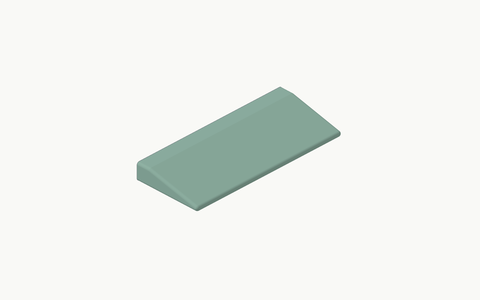
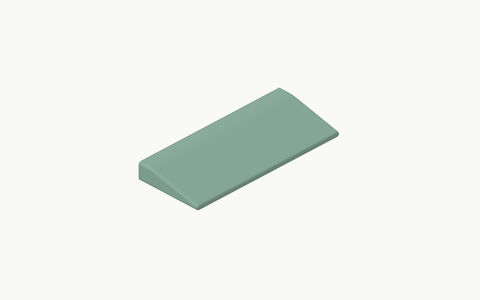
Refresh paired ramp gallery and record native print caveats
Regenerate only ten ramp thumbnails and the ramp overview from the committed R32 generator. Preserve unrelated images and their provenance. Document pocket-roof support and separate male-tab first-layer islands without claiming physical fit.

diff --git a/docs/attachments.md b/docs/attachments.md
@@ -1,6 +1,6 @@
 # Standard accessory gallery
 
-This page shows the 56 accessories in the standard 60 mm unit / 13 mm thickness catalogue for the documented 350 x 320 x 325 mm build space. Each thumbnail comes from that part's STEP file. Custom interface settings or another build space can change dimensions and what fits.
+This page shows the 61 accessories in the standard 60 mm unit / 13 mm thickness catalogue for the documented 350 x 320 x 325 mm build space. Each thumbnail comes from that part's STEP file. Custom interface settings or another build space can change dimensions and what fits.
 
 Click a thumbnail for the full-size image. The code name is the generator name. Parts in one family share a scale; different families use different scales so small details stay readable. Colour is only for the pictures.
 
@@ -10,22 +10,27 @@ Bracket names state both footprints. Deep tall is floor 1x2 -> wall 1x2, Wide lo
 
 The individual thumbnails show the bracket alone. The [family view](images/vertical-tile-brackets.png) adds separate floor and wall tiles to show assembly; those tiles are not included in the bracket export. Deep examples show the default underside-outward wall orientation, while shallow examples show the accepted top-outward orientation. Use one orientation consistently across adjoining wall tiles because top-outward placement reverses left/right joining handedness. Holes covered by the solid backing are blind while assembled.
 
-Ramp names give width along the tile edge in unit cells. Every ramp keeps the same physical 50 mm run; width, rise and one original female pocket per cell follow its unit/thickness interface. The gallery shows standard 60/13 examples. The ramp receives a tile's north male edge and extends in positive Y. Full-height ramp joints are not available.
+Ramp names give width along the tile edge in unit cells. Every ramp keeps a 50 mm slope run; width, rise and one original tile-edge joint per cell follow its unit/thickness interface. Female is the default: it receives a north male tile edge and extends in positive Y. Male tabs fit female south or west tile edges after placement rotation; these are tile-edge joints, not X plugs. At standard 60/13 settings, male tabs project another 6 mm beyond the slope, so overall depth is 56 mm. Full-height ramp joints are not available.
 
 Normal `vertical-stop` names give base X units, base Y units and the physical H60/H120 shoulder height. They are filled CAD wedges with no wall holes, panel connectors or ledges. The slicer still chooses perimeters and infill.
 
-Original edge/corner bodies and straight rail bodies use R3. Rail ends use smaller rounds where the shape or STEP export needs them. Plates, ramps and stops use R2. Brackets use R3 at the thick front-to-slope transition, R2 on other thick edges and R1 around the thin bearing lip. Mating surfaces keep their own geometry.
+Original edge/corner bodies and straight rail bodies use R3. Rail ends use smaller rounds where the shape or STEP export needs them. Plates and stops use R2. Ramps have R2 sides/noses and a broad R32 shelf blend, capped to retain 2 mm of flat shelf on thicker custom parts. Brackets use R3 at the thick front-to-slope transition, R2 on other thick edges and R1 around the thin bearing lip. Mating surfaces keep their own geometry.
 
-Before packing, Bambu projects put plates broad-face-down at X=180, original brackets on their diagonal rear face, shallow brackets side-down at Y=-90, normal stops on their broad rear face and angled stops back-down at X=-135. STEP, STL and core 3MF keep source orientation. Ramps, normal stops and shallow brackets turn on Auto support for that object. Remove support from mating areas before assembly.
+Before packing, Bambu projects put plates broad-face-down at X=180, original brackets on their diagonal rear face, shallow brackets side-down at Y=-90, normal stops on their broad rear face and angled stops back-down at X=-135. STEP, STL and core 3MF keep source orientation. Female ramps, normal stops and shallow brackets turn on Auto support for that object; male ramps leave it off. Remove support from mating areas before assembly. Physical fit and support removal still need checking on a print.
 
 ## Floor ramps
 
 <table><thead><tr><th width="206">Thumbnail</th><th>Name</th><th>Size / variant</th><th>What it does</th></tr></thead><tbody>
-<tr><td width="206"><a href="images/attachments/ramp-1.png"><img src="images/attachments/ramp-1.png" alt="ramp, 1 cell width / 50 mm run, original joints: isometric STEP-derived render" width="180" height="113"></a></td><td><code>ramp_<wbr>1_<wbr>original</code><br>Key: <code>ramp-1</code></td><td>1 cell width / 50 mm run<br>Bounds: 60.0 x 50.0 x 13.0 mm</td><td>A floor-to-mat transition with a 50 mm run. Its width and original female pocket follow unit size; its rise follows tile thickness. Bambu projects enable Auto support for the pocket roofs.</td></tr>
-<tr><td width="206"><a href="images/attachments/ramp-2.png"><img src="images/attachments/ramp-2.png" alt="ramp, 2 cell width / 50 mm run, original joints: isometric STEP-derived render" width="180" height="113"></a></td><td><code>ramp_<wbr>2_<wbr>original</code><br>Key: <code>ramp-2</code></td><td>2 cell width / 50 mm run<br>Bounds: 120.0 x 50.0 x 13.0 mm</td><td>A floor-to-mat transition with a 50 mm run. Its width and original female pocket follow unit size; its rise follows tile thickness. Bambu projects enable Auto support for the pocket roofs.</td></tr>
-<tr><td width="206"><a href="images/attachments/ramp-3.png"><img src="images/attachments/ramp-3.png" alt="ramp, 3 cell width / 50 mm run, original joints: isometric STEP-derived render" width="180" height="113"></a></td><td><code>ramp_<wbr>3_<wbr>original</code><br>Key: <code>ramp-3</code></td><td>3 cell width / 50 mm run<br>Bounds: 180.0 x 50.0 x 13.0 mm</td><td>A floor-to-mat transition with a 50 mm run. Its width and original female pocket follow unit size; its rise follows tile thickness. Bambu projects enable Auto support for the pocket roofs.</td></tr>
-<tr><td width="206"><a href="images/attachments/ramp-4.png"><img src="images/attachments/ramp-4.png" alt="ramp, 4 cell width / 50 mm run, original joints: isometric STEP-derived render" width="180" height="113"></a></td><td><code>ramp_<wbr>4_<wbr>original</code><br>Key: <code>ramp-4</code></td><td>4 cell width / 50 mm run<br>Bounds: 240.0 x 50.0 x 13.0 mm</td><td>A floor-to-mat transition with a 50 mm run. Its width and original female pocket follow unit size; its rise follows tile thickness. Bambu projects enable Auto support for the pocket roofs.</td></tr>
-<tr><td width="206"><a href="images/attachments/ramp-5.png"><img src="images/attachments/ramp-5.png" alt="ramp, 5 cell width / 50 mm run, original joints: isometric STEP-derived render" width="180" height="113"></a></td><td><code>ramp_<wbr>5_<wbr>original</code><br>Key: <code>ramp-5</code></td><td>5 cell width / 50 mm run<br>Bounds: 300.0 x 50.0 x 13.0 mm</td><td>A floor-to-mat transition with a 50 mm run. Its width and original female pocket follow unit size; its rise follows tile thickness. Bambu projects enable Auto support for the pocket roofs.</td></tr>
+<tr><td width="206"><a href="images/attachments/ramp-1.png"><img src="images/attachments/ramp-1.png" alt="female ramp, 1 cell width / 50 mm run, original joints: isometric STEP-derived render" width="180" height="113"></a></td><td><code>ramp_<wbr>1_<wbr>original</code><br>Key: <code>ramp-1</code></td><td>1 cell width / 50 mm run<br>Bounds: 60.0 x 50.0 x 13.0 mm</td><td>A 50 mm slope with original female tile-edge pockets. Receives a north male tile edge and extends in positive Y. Bambu projects enable Auto support for the pocket roofs; remove it before assembly.</td></tr>
+<tr><td width="206"><a href="images/attachments/ramp-2.png"><img src="images/attachments/ramp-2.png" alt="female ramp, 2 cell width / 50 mm run, original joints: isometric STEP-derived render" width="180" height="113"></a></td><td><code>ramp_<wbr>2_<wbr>original</code><br>Key: <code>ramp-2</code></td><td>2 cell width / 50 mm run<br>Bounds: 120.0 x 50.0 x 13.0 mm</td><td>A 50 mm slope with original female tile-edge pockets. Receives a north male tile edge and extends in positive Y. Bambu projects enable Auto support for the pocket roofs; remove it before assembly.</td></tr>
+<tr><td width="206"><a href="images/attachments/ramp-3.png"><img src="images/attachments/ramp-3.png" alt="female ramp, 3 cell width / 50 mm run, original joints: isometric STEP-derived render" width="180" height="113"></a></td><td><code>ramp_<wbr>3_<wbr>original</code><br>Key: <code>ramp-3</code></td><td>3 cell width / 50 mm run<br>Bounds: 180.0 x 50.0 x 13.0 mm</td><td>A 50 mm slope with original female tile-edge pockets. Receives a north male tile edge and extends in positive Y. Bambu projects enable Auto support for the pocket roofs; remove it before assembly.</td></tr>
+<tr><td width="206"><a href="images/attachments/ramp-4.png"><img src="images/attachments/ramp-4.png" alt="female ramp, 4 cell width / 50 mm run, original joints: isometric STEP-derived render" width="180" height="113"></a></td><td><code>ramp_<wbr>4_<wbr>original</code><br>Key: <code>ramp-4</code></td><td>4 cell width / 50 mm run<br>Bounds: 240.0 x 50.0 x 13.0 mm</td><td>A 50 mm slope with original female tile-edge pockets. Receives a north male tile edge and extends in positive Y. Bambu projects enable Auto support for the pocket roofs; remove it before assembly.</td></tr>
+<tr><td width="206"><a href="images/attachments/ramp-5.png"><img src="images/attachments/ramp-5.png" alt="female ramp, 5 cell width / 50 mm run, original joints: isometric STEP-derived render" width="180" height="113"></a></td><td><code>ramp_<wbr>5_<wbr>original</code><br>Key: <code>ramp-5</code></td><td>5 cell width / 50 mm run<br>Bounds: 300.0 x 50.0 x 13.0 mm</td><td>A 50 mm slope with original female tile-edge pockets. Receives a north male tile edge and extends in positive Y. Bambu projects enable Auto support for the pocket roofs; remove it before assembly.</td></tr>
+<tr><td width="206"><a href="images/attachments/ramp-male-1.png"><img src="images/attachments/ramp-male-1.png" alt="male ramp, 1 cell width / 50 mm run, original joints: isometric STEP-derived render" width="180" height="113"></a></td><td><code>ramp_<wbr>1_<wbr>male_<wbr>original</code><br>Key: <code>ramp-male-1</code></td><td>1 cell width / 50 mm run<br>Bounds: 60.0 x 56.0 x 13.0 mm</td><td>A 50 mm slope with original male tile-edge tabs, not X plugs. Tabs add 6 mm beyond the slope at standard unit size. Place against a female south or west tile edge. Bambu projects leave object support off.</td></tr>
+<tr><td width="206"><a href="images/attachments/ramp-male-2.png"><img src="images/attachments/ramp-male-2.png" alt="male ramp, 2 cell width / 50 mm run, original joints: isometric STEP-derived render" width="180" height="113"></a></td><td><code>ramp_<wbr>2_<wbr>male_<wbr>original</code><br>Key: <code>ramp-male-2</code></td><td>2 cell width / 50 mm run<br>Bounds: 120.0 x 56.0 x 13.0 mm</td><td>A 50 mm slope with original male tile-edge tabs, not X plugs. Tabs add 6 mm beyond the slope at standard unit size. Place against a female south or west tile edge. Bambu projects leave object support off.</td></tr>
+<tr><td width="206"><a href="images/attachments/ramp-male-3.png"><img src="images/attachments/ramp-male-3.png" alt="male ramp, 3 cell width / 50 mm run, original joints: isometric STEP-derived render" width="180" height="113"></a></td><td><code>ramp_<wbr>3_<wbr>male_<wbr>original</code><br>Key: <code>ramp-male-3</code></td><td>3 cell width / 50 mm run<br>Bounds: 180.0 x 56.0 x 13.0 mm</td><td>A 50 mm slope with original male tile-edge tabs, not X plugs. Tabs add 6 mm beyond the slope at standard unit size. Place against a female south or west tile edge. Bambu projects leave object support off.</td></tr>
+<tr><td width="206"><a href="images/attachments/ramp-male-4.png"><img src="images/attachments/ramp-male-4.png" alt="male ramp, 4 cell width / 50 mm run, original joints: isometric STEP-derived render" width="180" height="113"></a></td><td><code>ramp_<wbr>4_<wbr>male_<wbr>original</code><br>Key: <code>ramp-male-4</code></td><td>4 cell width / 50 mm run<br>Bounds: 240.0 x 56.0 x 13.0 mm</td><td>A 50 mm slope with original male tile-edge tabs, not X plugs. Tabs add 6 mm beyond the slope at standard unit size. Place against a female south or west tile edge. Bambu projects leave object support off.</td></tr>
+<tr><td width="206"><a href="images/attachments/ramp-male-5.png"><img src="images/attachments/ramp-male-5.png" alt="male ramp, 5 cell width / 50 mm run, original joints: isometric STEP-derived render" width="180" height="113"></a></td><td><code>ramp_<wbr>5_<wbr>male_<wbr>original</code><br>Key: <code>ramp-male-5</code></td><td>5 cell width / 50 mm run<br>Bounds: 300.0 x 56.0 x 13.0 mm</td><td>A 50 mm slope with original male tile-edge tabs, not X plugs. Tabs add 6 mm beyond the slope at standard unit size. Place against a female south or west tile edge. Bambu projects leave object support off.</td></tr>
 </tbody></table>
 
 ## Attachment plates
@@ -140,11 +145,13 @@ Before packing, Bambu projects put plates broad-face-down at X=180, original bra
 Use a CAD-Pilot checkout at the recorded workbench revision with its render dependencies installed. Cargo-Grid doesn't add them as runtime dependencies. From this repository root, run:
 
 ```sh
-PYTHONPATH=src <workbench-python> tools/render_docs.py --workbench <workbench-checkout>
+PYTHONPATH=src <workbench-python> tools/render_docs.py --workbench <workbench-checkout> --geometry-revision <committed-generator-revision> --workbench-revision <recorded-workbench-revision>
 ```
 
-Use the workbench's Python interpreter with Pillow already available; paths are supplied locally, not committed. In PowerShell, set `$env:PYTHONPATH='src'` before invoking that interpreter. The script checks geometry modules against the recorded commit, invokes STEP/inspection/render tools, then creates 6 overview PNGs and 56 family-scaled thumbnails. `--compose-only` reuses verified local STEP-derived renders; `--check` verifies the committed files and their one-to-one inventory mapping without Pillow. Intermediate STEP files and raw renders remain ignored. Layout is deterministic; raster bytes can depend on graphics/Pillow versions.
+Use the workbench's Python interpreter with Pillow already available; paths are supplied locally, not committed. In PowerShell, set `$env:PYTHONPATH='src'` before invoking that interpreter. A full run checks geometry modules against the recorded commit, invokes STEP/inspection/render tools, then creates 6 overview PNGs and 61 family-scaled thumbnails. `--compose-only` reuses verified local STEP-derived renders; `--check` verifies the committed files and their one-to-one inventory mapping without Pillow. Intermediate STEP files and raw renders remain ignored. Layout is deterministic; raster bytes can depend on graphics/Pillow versions.
 
-Generator source revision: <code>839b1b83<wbr>ef628a40<wbr>fe69842d<wbr>55b43246<wbr>215fbd6b</code>. Generator tree: <code>a52f8ab8<wbr>7c08861e<wbr>2233b262<wbr>cef38f19<wbr>6ea0a01f</code>. Workbench revision: <code>c3f63ef8<wbr>d8604d3e<wbr>c7eeba40<wbr>a2290478<wbr>87c03d86</code>.
+For a ramp-only update, add `--update-ramps --geometry-revision <committed-generator-revision> --workbench-revision <recorded-workbench-revision>`. This renders all ten ramps and recomposes only the ramp overview. Other pictures and their original provenance stay unchanged; no earlier render cache is needed.
+
+The manifest's top-level provenance belongs to the retained baseline images. Regenerated ramp thumbnails and the ramp overview each carry their own provenance; it does not describe a new full-gallery render. Ramp update source revision: <code>ea1a8a39<wbr>38c1e886<wbr>1eeae4f4<wbr>f78b48b5<wbr>b62db42e</code>. Generator tree: <code>1a60ceab<wbr>bbf5f8ba<wbr>cf80387f<wbr>c5d81aec<wbr>4fa4b061</code>. Workbench revision: <code>ff5b2181<wbr>afec7f80<wbr>571fbb95<wbr>f57dc244<wbr>418be2d2</code>.
 
 A clean render checks the picture and source inventory; it doesn't prove print quality or fit.

diff --git a/docs/geometry.md b/docs/geometry.md
@@ -92,6 +92,8 @@ Ramps require original roofed joints. Width and the joins follow unit size, rise
 
 The source orientation already places the underside on Z=0. Bambu exports scope normal Auto support to female ramp objects for their pocket roofs without enabling global support; male ramps do not request object support. Packing uses the actual bounds including male tabs. Bounded native checks of 1-cell and 5-cell female ramps at the documented H2D PETG profiles produced one connected first model layer and continuous model schedules. The deposited first layer reached about 48.72 mm of the 50 mm run at 0.8/0.32 and 48.47 mm at 0.4/0.20; the remaining nose is the upward-curving tangent tip. Auto support occupied only the exposed female-pocket region and must be removed before assembly. This is slicer evidence, not physical fit, adhesion or traffic/load validation.
 
+With the broad R32 shelf, native Bambu Studio 02.08.02.61 checks used the installed H2D 0.8 nozzle / 0.32 mm Balanced Strength / PETG Basic settings on one- and five-cell ramps, plus a one-cell 0.4/0.20 comparison. All model layers were present, and deposited model/support bounds stayed inside common reach; neither brim nor tower was generated. Female ramps retained a connected first model layer and pocket-roof support, with top interface paths at Z=10.12 and Z=10.0 respectively. Male OFF and Auto controls both generated no support, but their first model layer had separate body/tab islands: two for one cell and six for five cells. Auto does not join those islands or establish adhesion. Fresh native project restores retained the embedded settings, model parts, placements, material assignments and object support choices. Factory T-command parser diagnostics remained; these checks did not execute printer commands. Bed adhesion, support removal and printed fit still need a physical trial.
+
 ### Normal full-solid vertical stops
 
 `vertical-stop` is a cargo stop, not a wall-tile bracket. The catalogue includes 1x1, 1x2, 2x1 and 2x2 bases at physical shoulder heights H60 and H120 mm. The first count is base X width, the second is base Y depth, and height is measured from the attachment shoulder at Z=0. Unit size changes the base spacing and X profiles; stop height stays 60 or 120 mm. Plug tips are Z=`-(t-0.2)`, or -12.8 mm at standard thickness.
